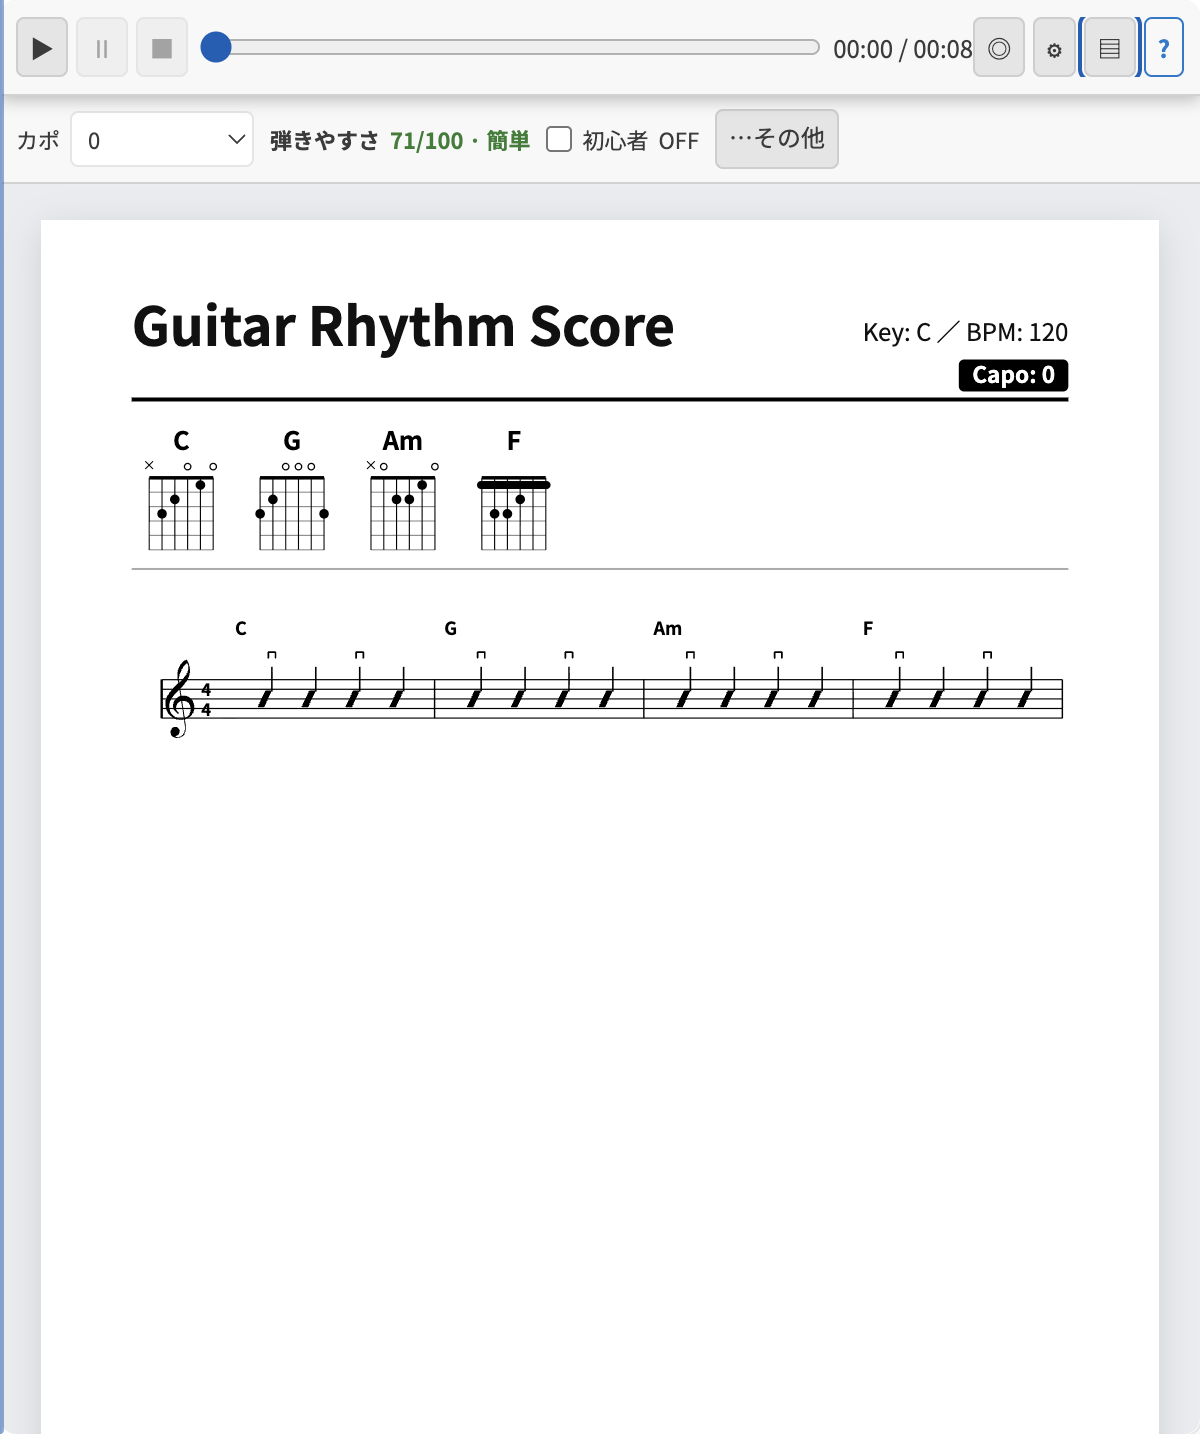
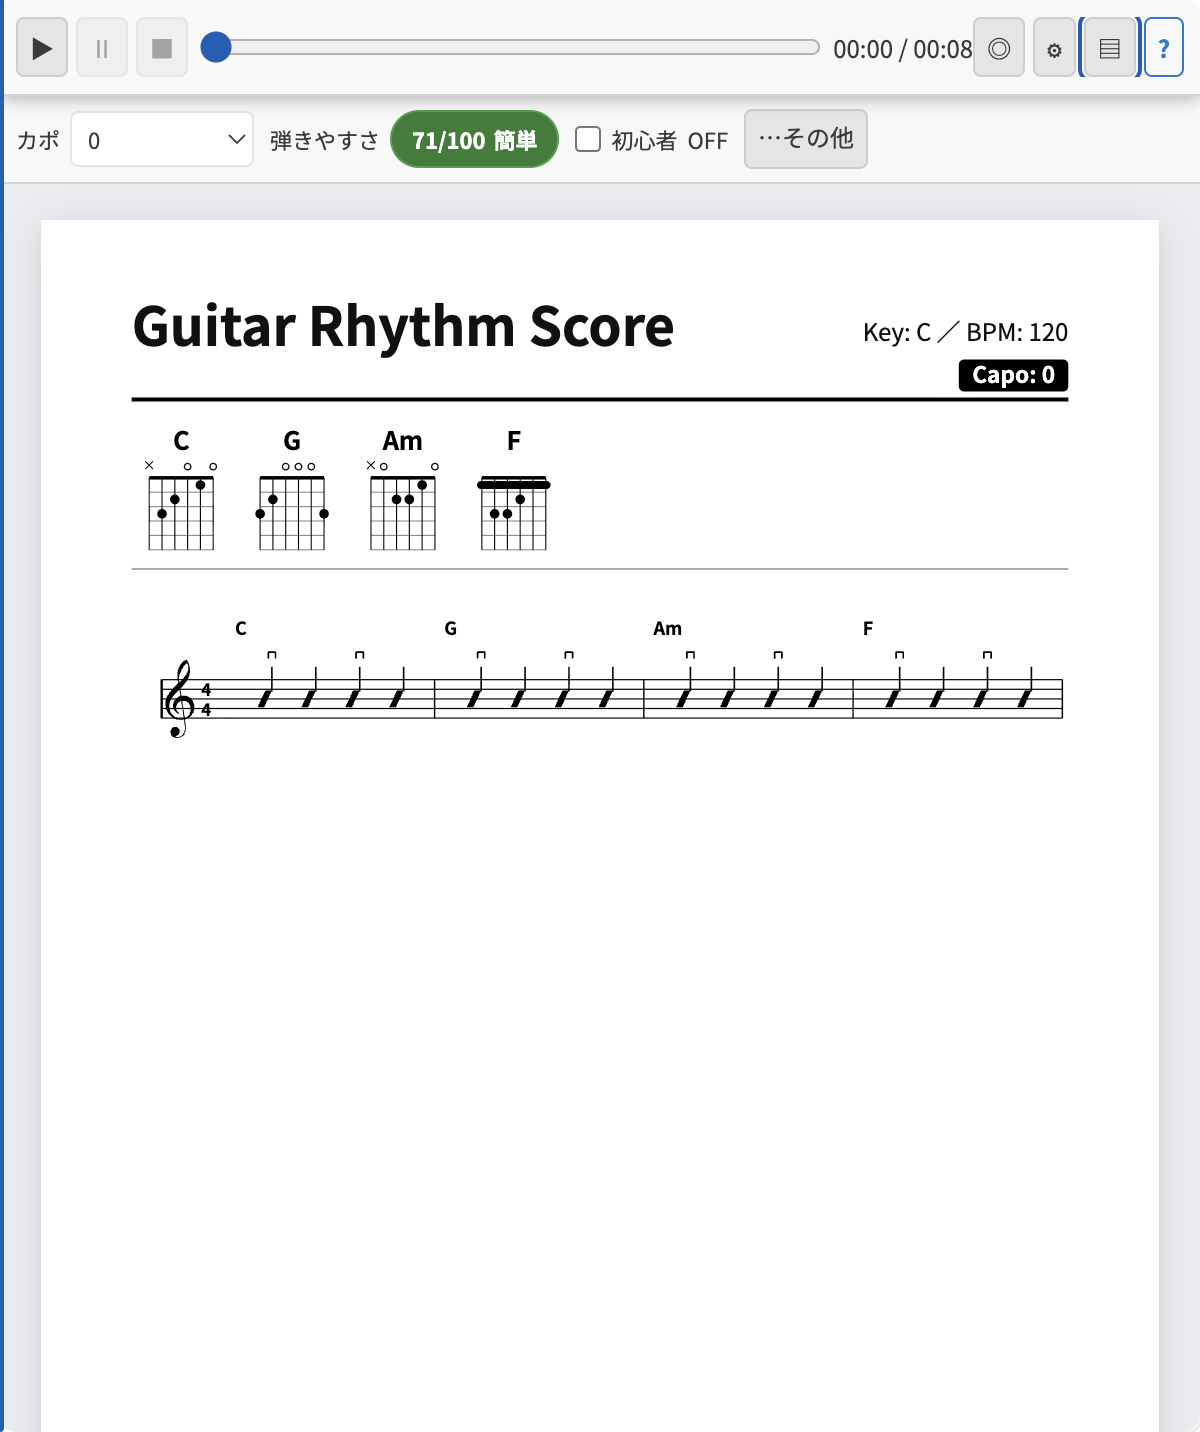
fix(#145): match playability badge design

diff --git a/src/render/previewHtml.ts b/src/render/previewHtml.ts
@@ -126,9 +126,9 @@ export function compileGuitarDslToHtml(dslContent: string, options?: CompileHtml
       return `<option value="${candidate.capo}"${candidate.capo === Number(selectedCapo) && selectedCapo !== '' ? ' selected' : ''}${candidate.supported ? '' : ' disabled'}>${candidate.capo}${recommended}</option>`;
     })
   ].join('');
-  const currentPlayabilityLabel = capoUi?.currentPlayability
-    ? `${capoUi.currentPlayability.score}/100 · ${msgs.playabilityLevels[capoUi.currentPlayability.level]}`
-    : msgs.uiPlayabilityUnavailable;
+  const currentPlayabilityValueHtml = capoUi?.currentPlayability
+    ? `<span class="score-settings-playability-value"><span>${capoUi.currentPlayability.score}/100</span><span class="score-settings-playability-separator"> · </span><span>${escapeXml(msgs.playabilityLevels[capoUi.currentPlayability.level])}</span></span>`
+    : `<span class="score-settings-playability-value">${escapeXml(msgs.uiPlayabilityUnavailable)}</span>`;
   const currentPlayabilityControlLabel = capoUi?.currentPlayability
     ? `${msgs.uiPlayability} ${msgs.playabilityLevels[capoUi.currentPlayability.level]} ${capoUi.currentPlayability.score}/100`
     : `${msgs.uiPlayability} ${msgs.uiPlayabilityUnavailable}`;
@@ -262,12 +262,32 @@ ${cspMeta}
     font-size: 11px;
     font-variant-numeric: tabular-nums;
   }
-  .score-settings-playability[data-level="veryEasy"],
-  .score-settings-playability[data-level="easy"] { color: #2e7d32; font-weight: 600; }
-  .score-settings-playability[data-level="moderate"] { color: #8d6e00; font-weight: 600; }
-  .score-settings-playability[data-level="hard"],
-  .score-settings-playability[data-level="veryHard"] { color: #b71c1c; font-weight: 600; }
-  .score-settings-playability[data-level="unavailable"] { color: var(--vscode-descriptionForeground, #cccccc); }
+  .score-settings-playability-value {
+    box-sizing: border-box;
+    display: inline-flex;
+    align-items: center;
+    justify-content: center;
+    column-gap: 0;
+    min-height: 29px;
+    padding: 2px 10px;
+    border: 1px solid transparent;
+    border-radius: 999px;
+    color: #fff;
+    font-size: 11px;
+    font-weight: 600;
+    line-height: 1.2;
+  }
+  .score-settings-playability[data-level="veryEasy"] .score-settings-playability-value,
+  .score-settings-playability[data-level="easy"] .score-settings-playability-value { background-color: #2e7d32; border-color: #459e4b; }
+  .score-settings-playability[data-level="moderate"] .score-settings-playability-value { background-color: #8d6e00; border-color: #b09200; }
+  .score-settings-playability[data-level="hard"] .score-settings-playability-value,
+  .score-settings-playability[data-level="veryHard"] .score-settings-playability-value { background-color: #b71c1c; border-color: #d95c5c; }
+  .score-settings-playability[data-level="unavailable"] .score-settings-playability-value {
+    min-height: 0;
+    padding: 0;
+    color: var(--vscode-descriptionForeground, #cccccc);
+    font-weight: 400;
+  }
   .score-settings-beginner { cursor: pointer; font-size: 11px; }
   .score-settings-beginner input { margin: 0; }
   .score-settings-overflow { flex: 1 1 auto; min-width: 0; display: flex; align-items: center; gap: 8px; }
@@ -625,6 +645,10 @@ ${cspMeta}
     .playback-time { min-width: 70px; }
     .toolbar-actions { max-width: 60%; }
   }
+  @media (max-width: 600px) {
+    .score-settings-playability-separator { display: none; }
+    .score-settings-playability-value { column-gap: 4px; }
+  }
   @media (max-width: 839px) {
     .score-settings-overflow { flex: 0 0 auto; }
     .score-settings-overflow-toggle { display: inline-flex; }
@@ -714,7 +738,7 @@ ${cspMeta}
   <div class="score-settings-row" id="score-settings-row" role="group" aria-label="${escapeXml(msgs.uiScoreSettings)}">
     <div class="score-settings-primary">
       <label class="score-settings-capo" for="preview-capo-select"><span class="score-settings-label">${escapeXml(msgs.uiCapo)}</span><select id="preview-capo-select" class="score-settings-select" aria-label="${escapeXml(msgs.uiCapo)}" title="${escapeXml(msgs.uiCapoTitle)}"${capoSelectDisabled ? ' disabled' : ''}>${capoOptionsHtml}</select></label>
-      <div class="score-settings-playability" id="preview-playability" data-level="${playabilityLevel}" role="status" aria-live="polite" aria-label="${escapeXml(currentPlayabilityControlLabel)}"><span class="score-settings-label">${escapeXml(msgs.uiPlayability)}</span><span>${escapeXml(currentPlayabilityLabel)}</span></div>
+      <div class="score-settings-playability" id="preview-playability" data-level="${playabilityLevel}" role="status" aria-live="polite" aria-label="${escapeXml(currentPlayabilityControlLabel)}"><span class="score-settings-label">${escapeXml(msgs.uiPlayability)}</span>${currentPlayabilityValueHtml}</div>
       <label class="score-settings-beginner" title="${escapeXml(msgs.uiBeginnerModeTitle)}"><input id="toggle-preview-beginner" type="checkbox"${beginnerUi.active ? ' checked' : ''}><span>${escapeXml(msgs.uiBeginnerShort)}</span><span>${beginnerUi.active ? escapeXml(msgs.uiBeginnerOn) : escapeXml(msgs.uiBeginnerOff)}</span></label>
     </div>
     <div class="score-settings-overflow">

diff --git a/tests/e2e/extension.test.ts b/tests/e2e/extension.test.ts
@@ -372,8 +372,10 @@ suite('GuitarDSL Extension E2E Test Suite', () => {
         const panel = document.getElementById('temporary-score-settings-panel');
         const more = document.getElementById('temporary-score-settings-toggle');
         const mainIds = ['preview-capo-select','preview-playability','toggle-preview-beginner'];
-        const level = document.getElementById('preview-playability').dataset.level;
-        const color = getComputedStyle(document.getElementById('preview-playability')).color;
+        const playability = document.getElementById('preview-playability');
+        const level = playability.dataset.level;
+        const value = playability.querySelector('.score-settings-playability-value');
+        const valueStyle = getComputedStyle(value);
         const colors = { veryEasy: 'rgb(46, 125, 50)', easy: 'rgb(46, 125, 50)',
           moderate: 'rgb(141, 110, 0)', hard: 'rgb(183, 28, 28)', veryHard: 'rgb(183, 28, 28)' };
         const supplements = ['select-preview-barre-policy','select-preview-beginner-capo-mode',
@@ -396,8 +398,12 @@ suite('GuitarDSL Extension E2E Test Suite', () => {
           inline: panel.dataset.inline,
           panelHidden: panel.hidden,
           supplementsVisible: supplements.map(id => document.getElementById(id)?.getClientRects().length > 0),
-          playability: { level, text: document.getElementById('preview-playability').innerText,
-            color, colorMatches: level === 'unavailable' ? color !== 'rgb(0, 0, 0)' : color === colors[level] },
+          playability: { level, text: playability.innerText, backgroundColor: valueStyle.backgroundColor,
+            foregroundColor: valueStyle.color, borderRadius: valueStyle.borderRadius,
+            columnGap: valueStyle.columnGap,
+            separatorDisplay: getComputedStyle(playability.querySelector('.score-settings-playability-separator')).display,
+            colorMatches: level === 'unavailable' ? valueStyle.backgroundColor === 'rgba(0, 0, 0, 0)' : valueStyle.backgroundColor === colors[level],
+            foregroundMatches: level === 'unavailable' ? valueStyle.color !== 'rgb(255, 255, 255)' : valueStyle.color === 'rgb(255, 255, 255)' },
           practice: { display: practiceStyle.display, bodyPadding: getComputedStyle(document.body).paddingTop },
           noTemporaryTitle: !document.body.innerText.includes('一時楽譜設定')
             && !document.body.innerText.includes('Temporary Score Settings'),
@@ -415,7 +421,14 @@ suite('GuitarDSL Extension E2E Test Suite', () => {
       assert.strictEqual(state.panelHidden, width < 840, `${width}px keeps overflow closed and inline settings visible`);
       if (width >= 840) assert.deepStrictEqual(state.supplementsVisible, [true, true, true, true], `${width}px exposes all supplemental controls`);
       assert.strictEqual(state.playability.colorMatches, true,
-        `${width}px uses the restored level palette and includes its score/level text: ${JSON.stringify(state.playability)}`);
+        `${width}px uses the restored level palette as a filled badge: ${JSON.stringify(state.playability)}`);
+      assert.strictEqual(state.playability.foregroundMatches, true,
+        `${width}px keeps rated badge text white and unavailable values neutral: ${JSON.stringify(state.playability)}`);
+      assert.strictEqual(state.playability.borderRadius, '999px', `${width}px renders the score as a rounded badge`);
+      assert.strictEqual(state.playability.columnGap, width <= 600 ? '4px' : '0px',
+        `${width}px maintains score/level spacing when the compact design hides its separator`);
+      assert.strictEqual(state.playability.separatorDisplay, width <= 600 ? 'none' : 'block',
+        `${width}px follows the design's compact score and level spacing`);
       assert.ok(state.playability.text.includes('/100') || /Not available|評価できません/.test(state.playability.text),
         `${width}px presents a numeric score or an explicit unavailable label`);
       assert.strictEqual(state.practice.display, 'none', `${width}px Practice OFF hides its row`);

diff --git a/tests/unit/render.test.ts b/tests/unit/render.test.ts
@@ -333,14 +333,12 @@ describe('render - Preview playback and score-settings rows', () => {
     assert.ok(toolbarRule, 'top toolbar has a dedicated CSS rule');
     assert.match(toolbarRule, /height:\s*48px;/);
     assert.match(css, /\.score-settings-row\s*\{[^}]*top:\s*48px;[^}]*height:\s*44px;/s);
-    for (const level of ['veryEasy', 'easy']) {
-      assert.match(css, new RegExp(`\\.score-settings-playability\\[data-level="${level}"\\][^}]*#2e7d32`));
-    }
-    assert.match(css, /\.score-settings-playability\[data-level="moderate"\][^}]*#8d6e00/);
-    for (const level of ['hard', 'veryHard']) {
-      assert.match(css, new RegExp(`\\.score-settings-playability\\[data-level="${level}"\\][^}]*#b71c1c`));
-    }
-    assert.match(css, /\.score-settings-playability\[data-level="unavailable"\][^}]*var\(--vscode-descriptionForeground/);
+    assert.match(css, /\.score-settings-playability-value\s*\{[^}]*border-radius:\s*999px;[^}]*color:\s*#fff;/s);
+    assert.match(css, /\.score-settings-playability\[data-level="veryEasy"\] \.score-settings-playability-value,\s*\.score-settings-playability\[data-level="easy"\] \.score-settings-playability-value\s*\{[^}]*background-color:\s*#2e7d32/);
+    assert.match(css, /\.score-settings-playability\[data-level="moderate"\] \.score-settings-playability-value\s*\{[^}]*background-color:\s*#8d6e00/);
+    assert.match(css, /\.score-settings-playability\[data-level="hard"\] \.score-settings-playability-value,\s*\.score-settings-playability\[data-level="veryHard"\] \.score-settings-playability-value\s*\{[^}]*background-color:\s*#b71c1c/);
+    assert.match(css, /\.score-settings-playability\[data-level="unavailable"\] \.score-settings-playability-value\s*\{[^}]*var\(--vscode-descriptionForeground/);
+    assert.match(css, /@media \(max-width: 600px\)\s*\{\s*\.score-settings-playability-separator\s*\{\s*display:\s*none;\s*\}[^}]*\.score-settings-playability-value\s*\{\s*column-gap:\s*4px;/s);
     assert.match(css, /\.toolbar-disclosure-panel\s*\{[^}]*width:\s*min\(360px, calc\(100vw - 16px\)\)/s);
     assert.match(css, /\.toolbar-disclosure-panel\s*\{[^}]*max-height:\s*calc\(100vh - 64px\)/s);
     assert.match(css, /@media \(max-width: 839px\)[\s\S]*?\.score-settings-overflow-toggle\s*\{\s*display:\s*inline-flex;/);

diff --git a/docs/status/implementation-status.md b/docs/status/implementation-status.md
@@ -59,7 +59,7 @@
 ## Issue #145: Previewの一時楽譜設定（カポ・難易度・初心者モード）を復元
 
 - **状態**: 最新仕様追補とPR #149のレビュー指摘を反映。PR #149 はレビュー中で、未マージ。
-- **実装**: 48px再生行の直下に44pxの楽譜設定行を常時表示し、「一時楽譜設定」の見出しは表示しない。カポ・色付き弾きやすさ・初心者モードを直接操作できる。840 CSS px以上では補助設定とInspectorリンクを同じ行に表示し、それ未満ではMoreから操作できる。練習モードON時だけtop=92px・高さ42pxの行を追加し、本文paddingをOFF=110px / ON=152pxとする。弾きやすさは緑 `#2e7d32`・黄土 `#8d6e00`・赤 `#b71c1c`、評価不能は中立色。Preview intentはURI/version/generationと候補の対応を確認してから処理し、無効・stale messageはfocus復元hintを破棄しない。Preview設定は既存controllerを使い、DSL編集やUndoを行わず、Inspectorが詳細編集とApply/Cancelを所有する。
+- **実装**: 48px再生行の直下に44pxの楽譜設定行を常時表示し、「一時楽譜設定」の見出しは表示しない。カポ・弾きやすさ・初心者モードを直接操作できる。弾きやすさはデザイン案に合わせ、ラベルの右に白字の緑 `#2e7d32`・黄土 `#8d6e00`・赤 `#b71c1c` の丸いスコアバッジを表示し、600 CSS px以下では点区切りを省略しつつスコアと難易度の間隔を保つ。評価不能は中立色で表示する。840 CSS px以上では補助設定とInspectorリンクを同じ行に表示し、それ未満ではMoreから操作できる。練習モードON時だけtop=92px・高さ42pxの行を追加し、本文paddingをOFF=110px / ON=152pxとする。Preview intentはURI/version/generationと候補の対応を確認してから処理し、無効・stale messageはfocus復元hintを破棄しない。Preview設定は既存controllerを使い、DSL編集やUndoを行わず、Inspectorが詳細編集とApply/Cancelを所有する。
 - **検証**: macOS arm64 / VS Code 1.142.0。`.agent/project.json` の `npm run compile`、最終 `npm test`（Help/AI同期PASS、単体 **1,154件PASS**、VS Code E2E **98件PASS・6件pending**）、`npm run vscode:prepublish`、`npx @vscode/vsce ls`（**1,599項目**）はPASS。`verify-implementation-contract 145`、`validate-docs --issue 145`、`git diff --check` もPASS。実WorkbenchのExtension Development Hostで421/600/840/1100 CSS px × JA/EN × Dark/Lightの16条件を個別に実行し、各条件で行の幾何、直接操作、色、練習行、旧見出しの非表示を検査。unsupported候補の拒否・Inspector draft保持とaccepted intentのstale duplicate拒否・focus復元は対象E2E **2件PASS**。初回全体実行で検出したWebview再描画完了前のfocus検査raceは、document identity/generationを待つようテストを修正し、再実行で全テストPASS。6件のpendingとVoiceOver/NVDA、Windows/Linuxは未実施。
 - **画面証拠**: 実Preview Webviewから撮影。各セルにEN・暗色 / EN・明色 / JA・暗色 / JA・明色の証拠を記録する。
 
